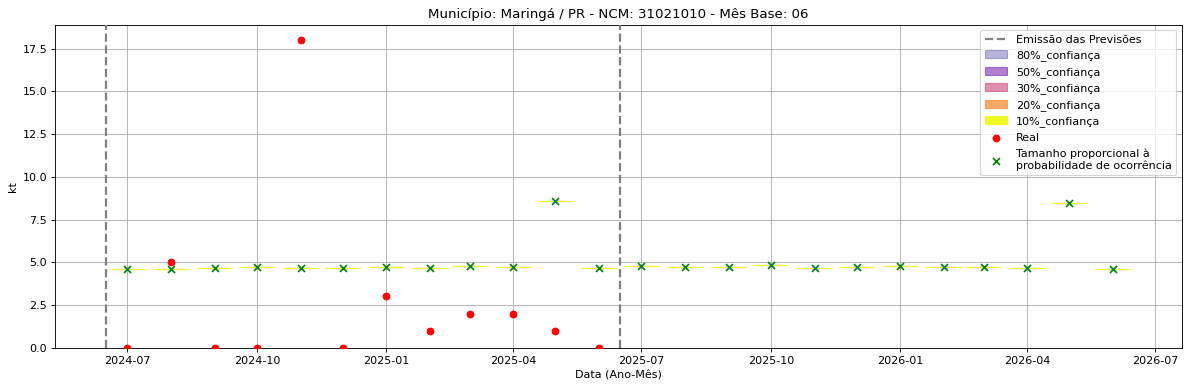
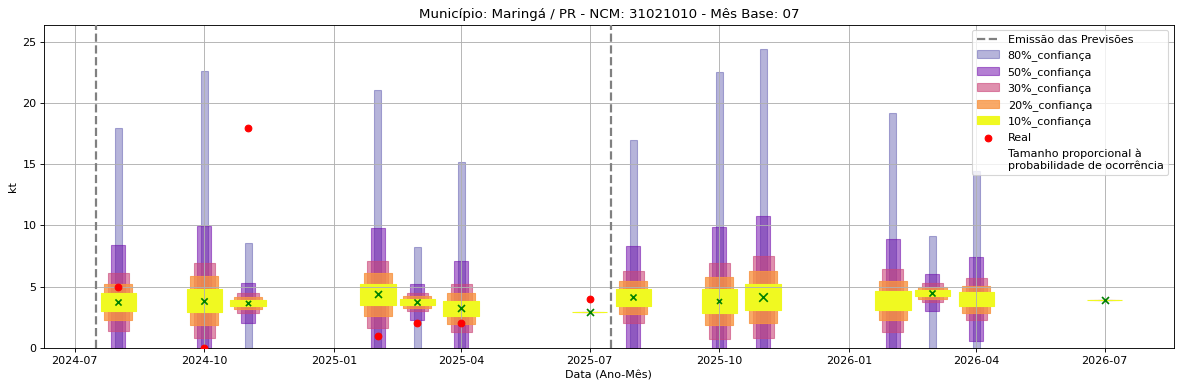
Atualização automática em lote

diff --git a/README.md b/README.md
@@ -6,9 +6,9 @@
 
 # Previsão de Importação - Maringá-PR
 
-> **Emissão:** 06-2025
+> **Emissão:** 07-2025
 > Para fins de comparação, também apresentamos a seguir previsões e valores reais de períodos anteriores ao atual.
-> As previsões foram geradas com base em dados limitados até o mês 6.
+> As previsões foram geradas com base em dados limitados até o mês 7.
 
 ---
 
@@ -17,16 +17,17 @@
 
 ![Gráfico de Previsão](31021010.png)
 Fator de Influência em Destaque:
+Previsões emitidas no mês 8.
 Previsão Influenciada:
 - Município: Maringá
 - Produto (NCM): Ureia, mesmo em solução aquosa, com teor de nitrogênio (azoto) superior a 45 %, em peso, calculado sobre o produto anidro no estado seco-31021010 
-- Mês previsto: 09
+- Mês previsto: 07
 
 
 Fator Influenciador: Comex
-- Município: Porto Alegre
-- Grupo de Produto (SH2): Sementes e frutos oleaginosos; grãos, sementes e frutos diversos; plantas industriais ou medicinais; palhas e forragens-12 
-- Mês previsto: 09
+- Unidade Federativa: SP
+- Grupo de Produto (SH2): Adubos (fertilizantes)-31 
+- Mês: 10
 - Unidade: sm_diff
 
 
@@ -37,37 +38,15 @@ Fator Influenciador: Comex
 
 ![Gráfico de Previsão](31042090.png)
 Fator de Influência em Destaque:
+Previsões emitidas no mês 8.
 Previsão Influenciada:
 - Município: Maringá
 - Produto (NCM): Outros cloretos de potássio-31042090 
-- Mês previsto: 08
+- Mês previsto: 04
 
 
-Fator Influenciador: Comex
-- Município: Porto Alegre
-- Grupo de Produto (SH2): Adubos (fertilizantes)-31 
-- Mês previsto: 08
-- Unidade: price_mun
-
-
-
-
-
-
-
-![Gráfico de Previsão](31054000.png)
-Fator de Influência em Destaque:
-Previsão Influenciada:
-- Município: Maringá
-- Produto (NCM): Diidrogeno-ortofosfato de amônio (fosfato monoamônico ou monoamoniacal), mesmo misturado com hidrogeno-ortofosfato de diamônio (fosfato diamônico ou diamoniacal)-31054000 
-- Mês previsto: 12
-
-
-Fator Influenciador: Comex
-- Município: Londrina
-- Grupo de Produto (SH2): Sementes e frutos oleaginosos; grãos, sementes e frutos diversos; plantas industriais ou medicinais; palhas e forragens-12 
-- Mês previsto: 12
-- Unidade: kt_lag12
+Fator Influenciador: O tempo. Elevada correlação com o tempo ou tendência. 
+- Unidade: date
 
 
 
